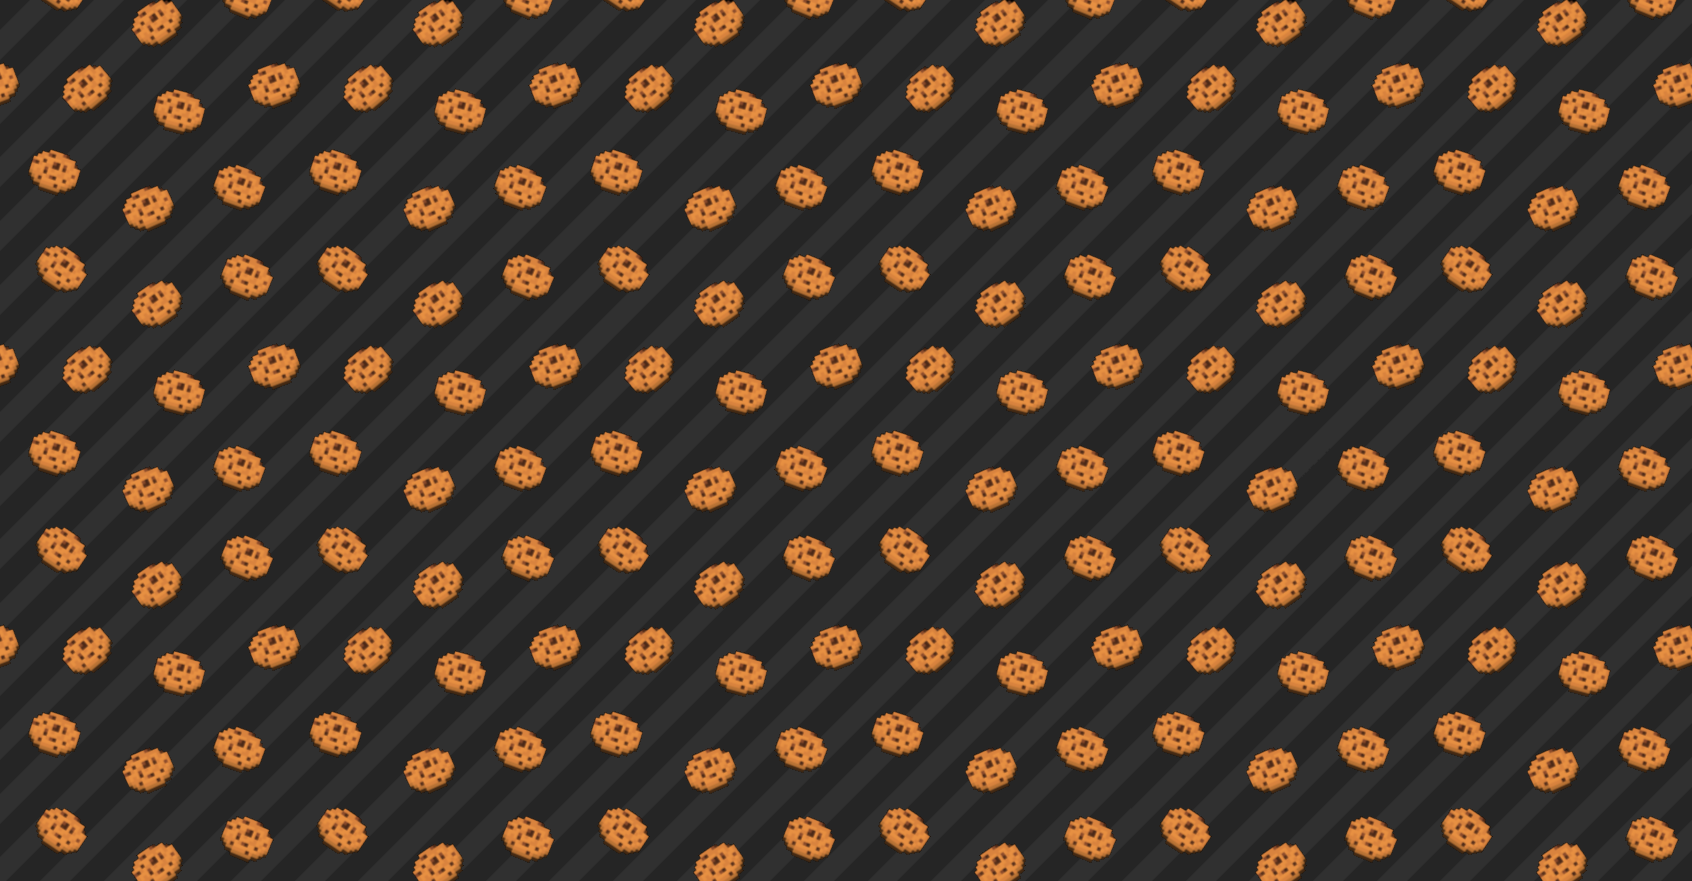
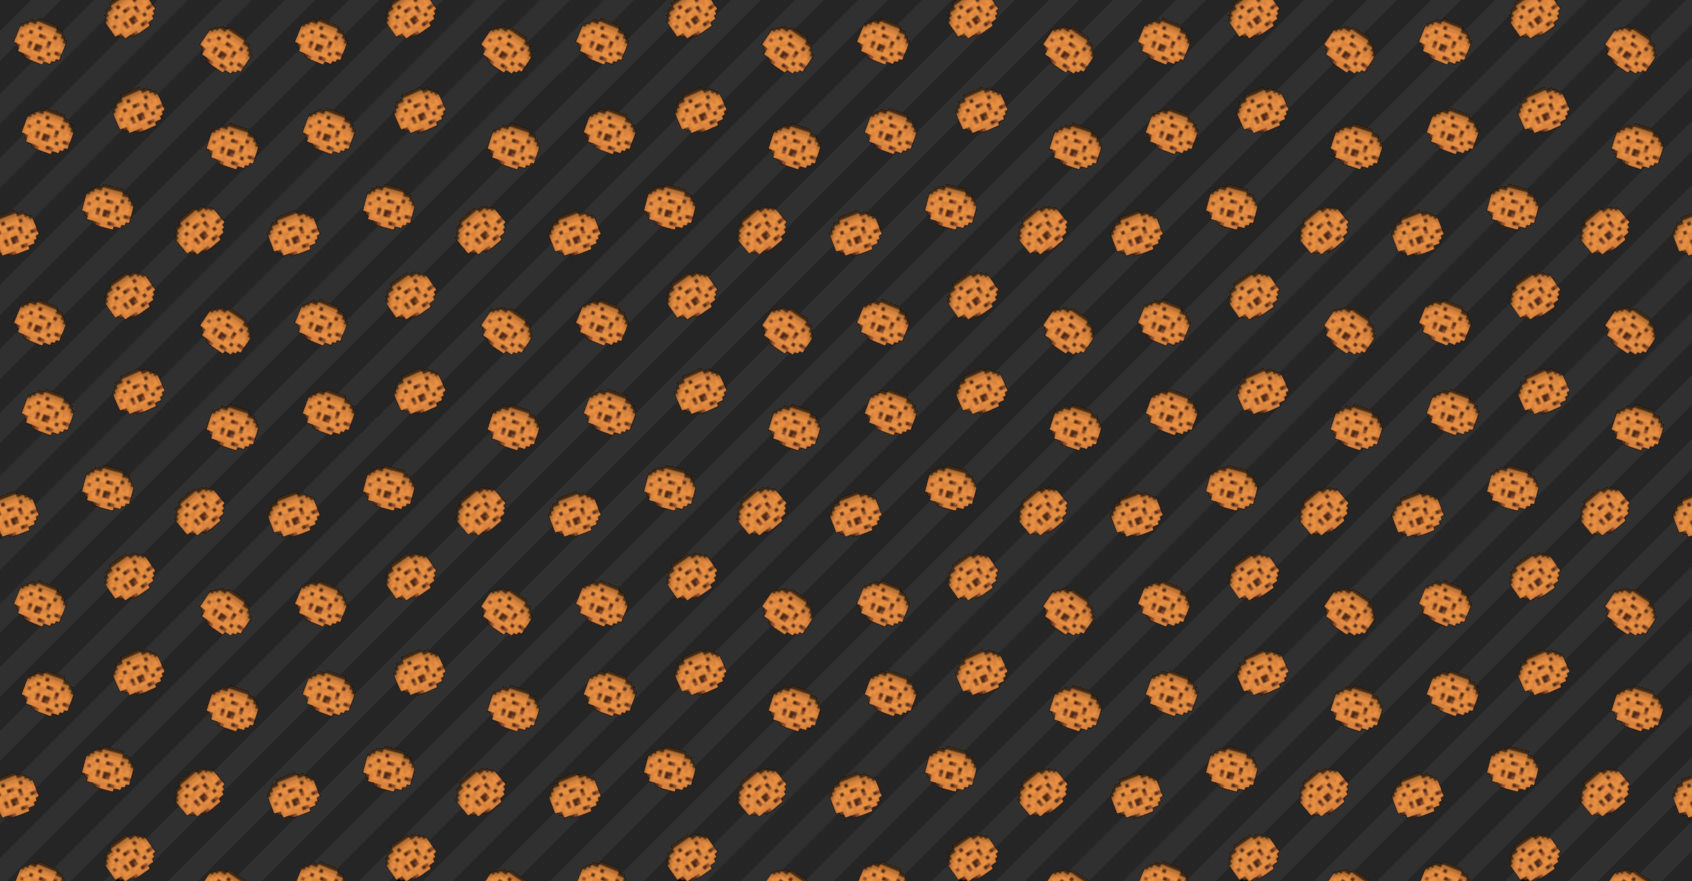
made mobile zoomed

diff --git a/docs/mazarca/index.html b/docs/mazarca/index.html
@@ -15,6 +15,11 @@
             background-position: top center;
             color:#ffffff;
         }
+        @media (min-device-width:320px) and (max-device-width:768px) {
+            html, body {
+                zoom:120%;
+            }
+        }   
         a {
             color:orange
         }
